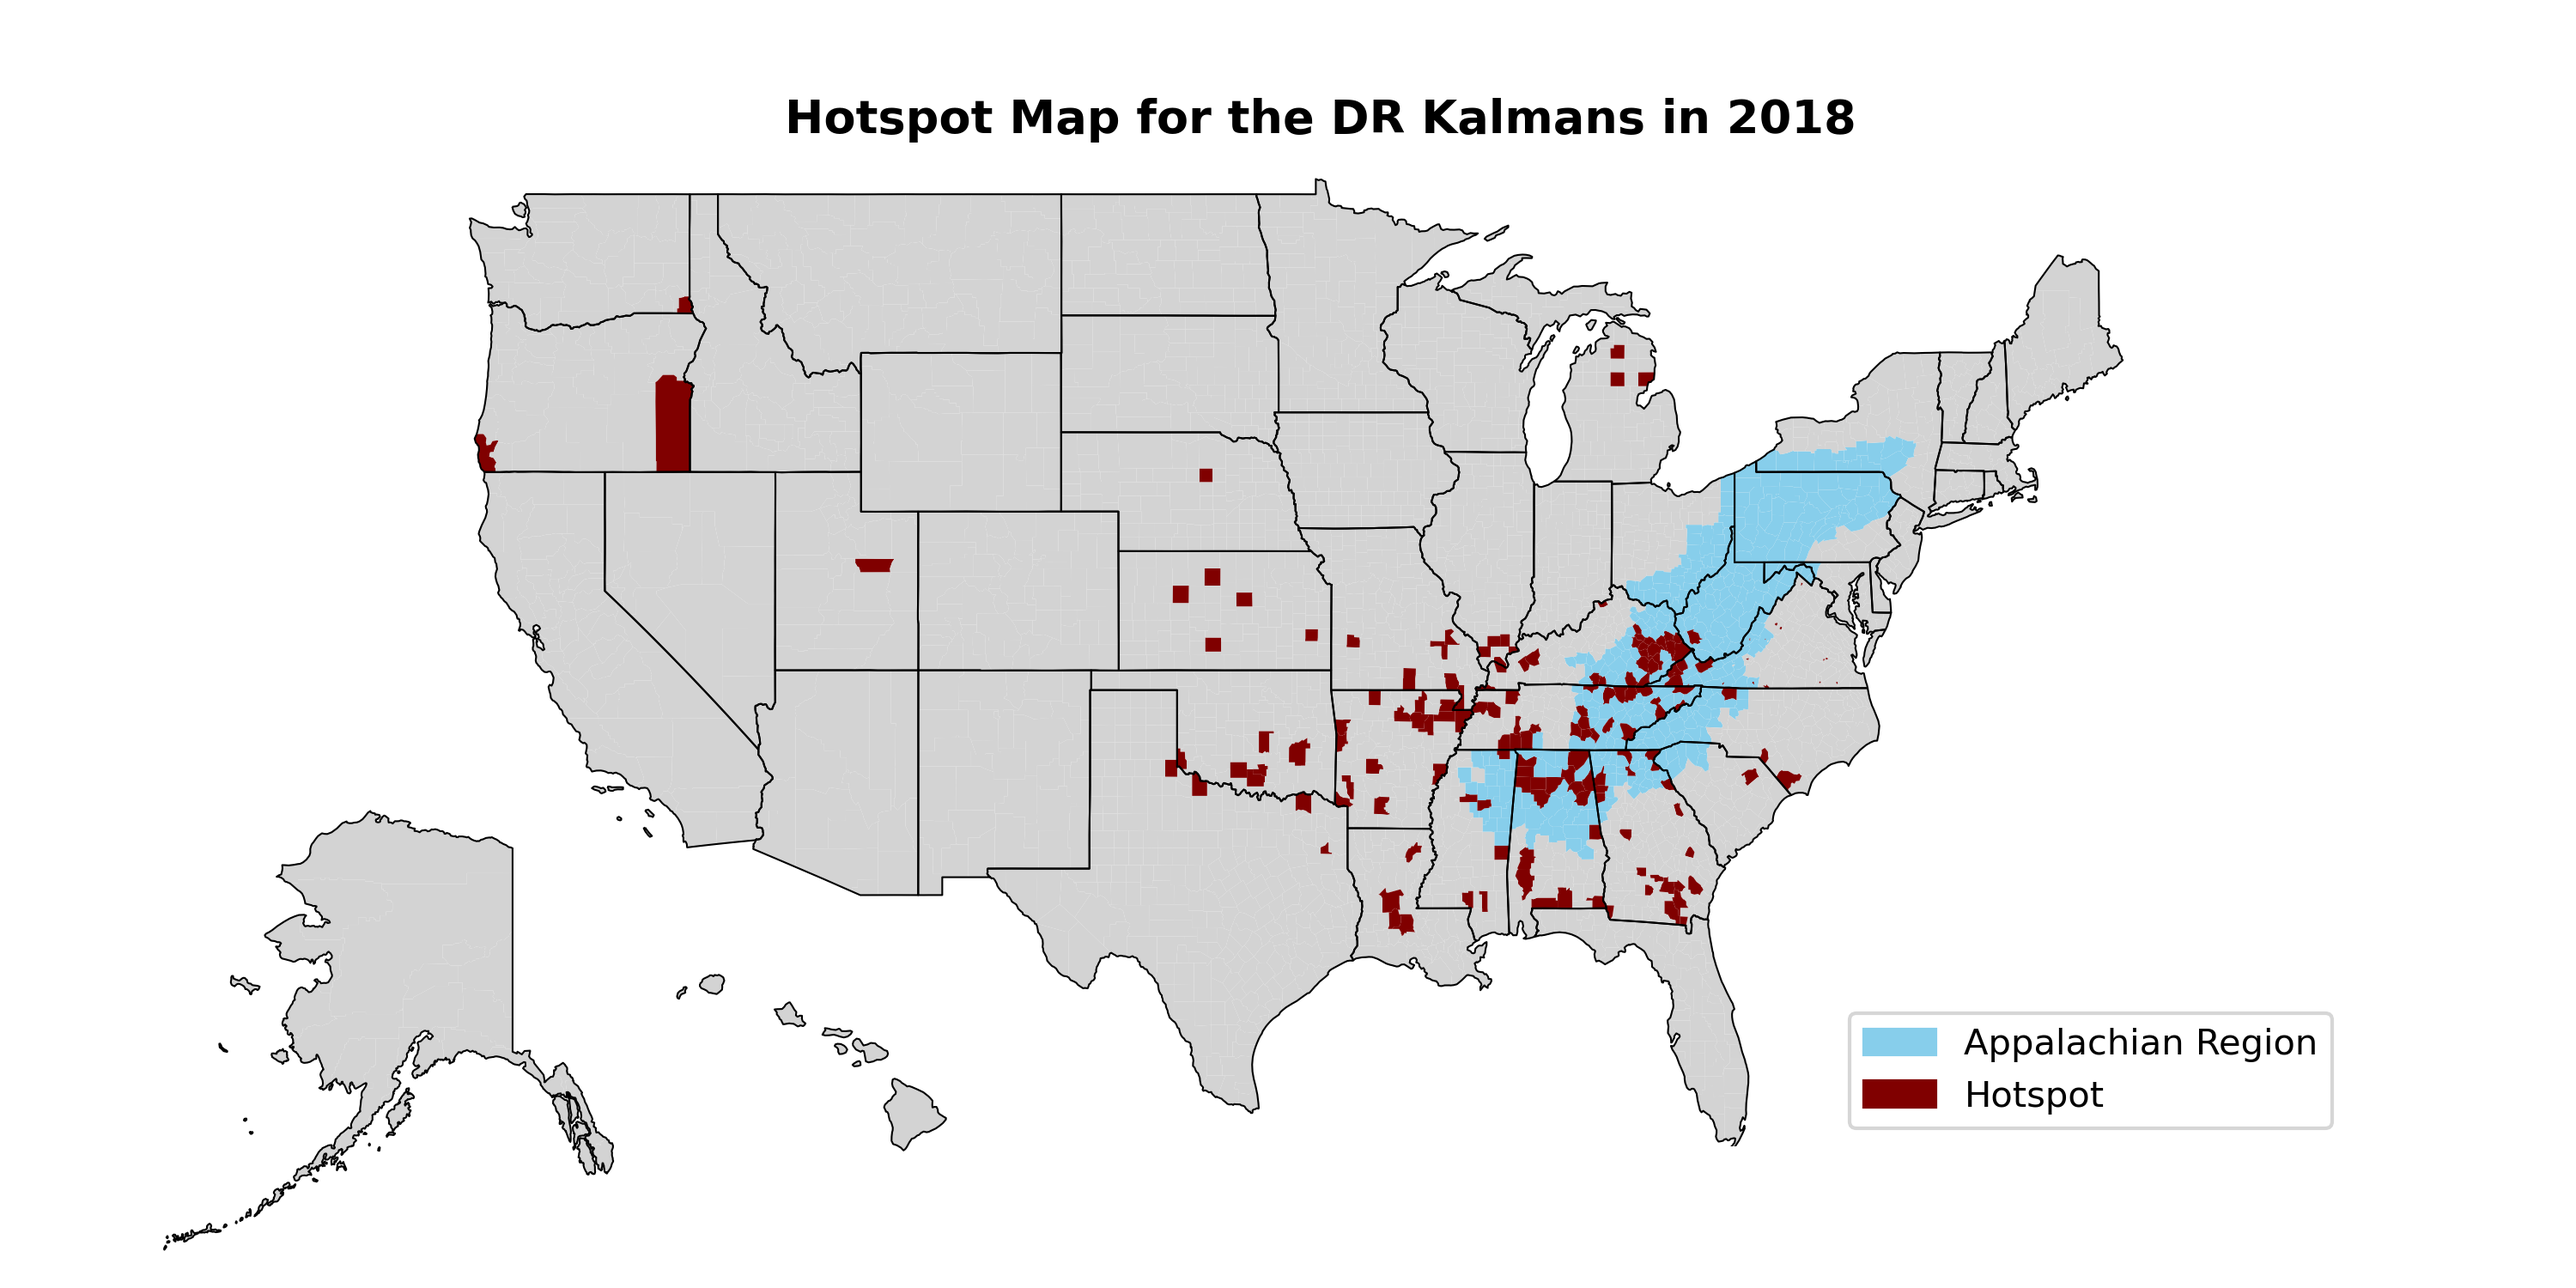
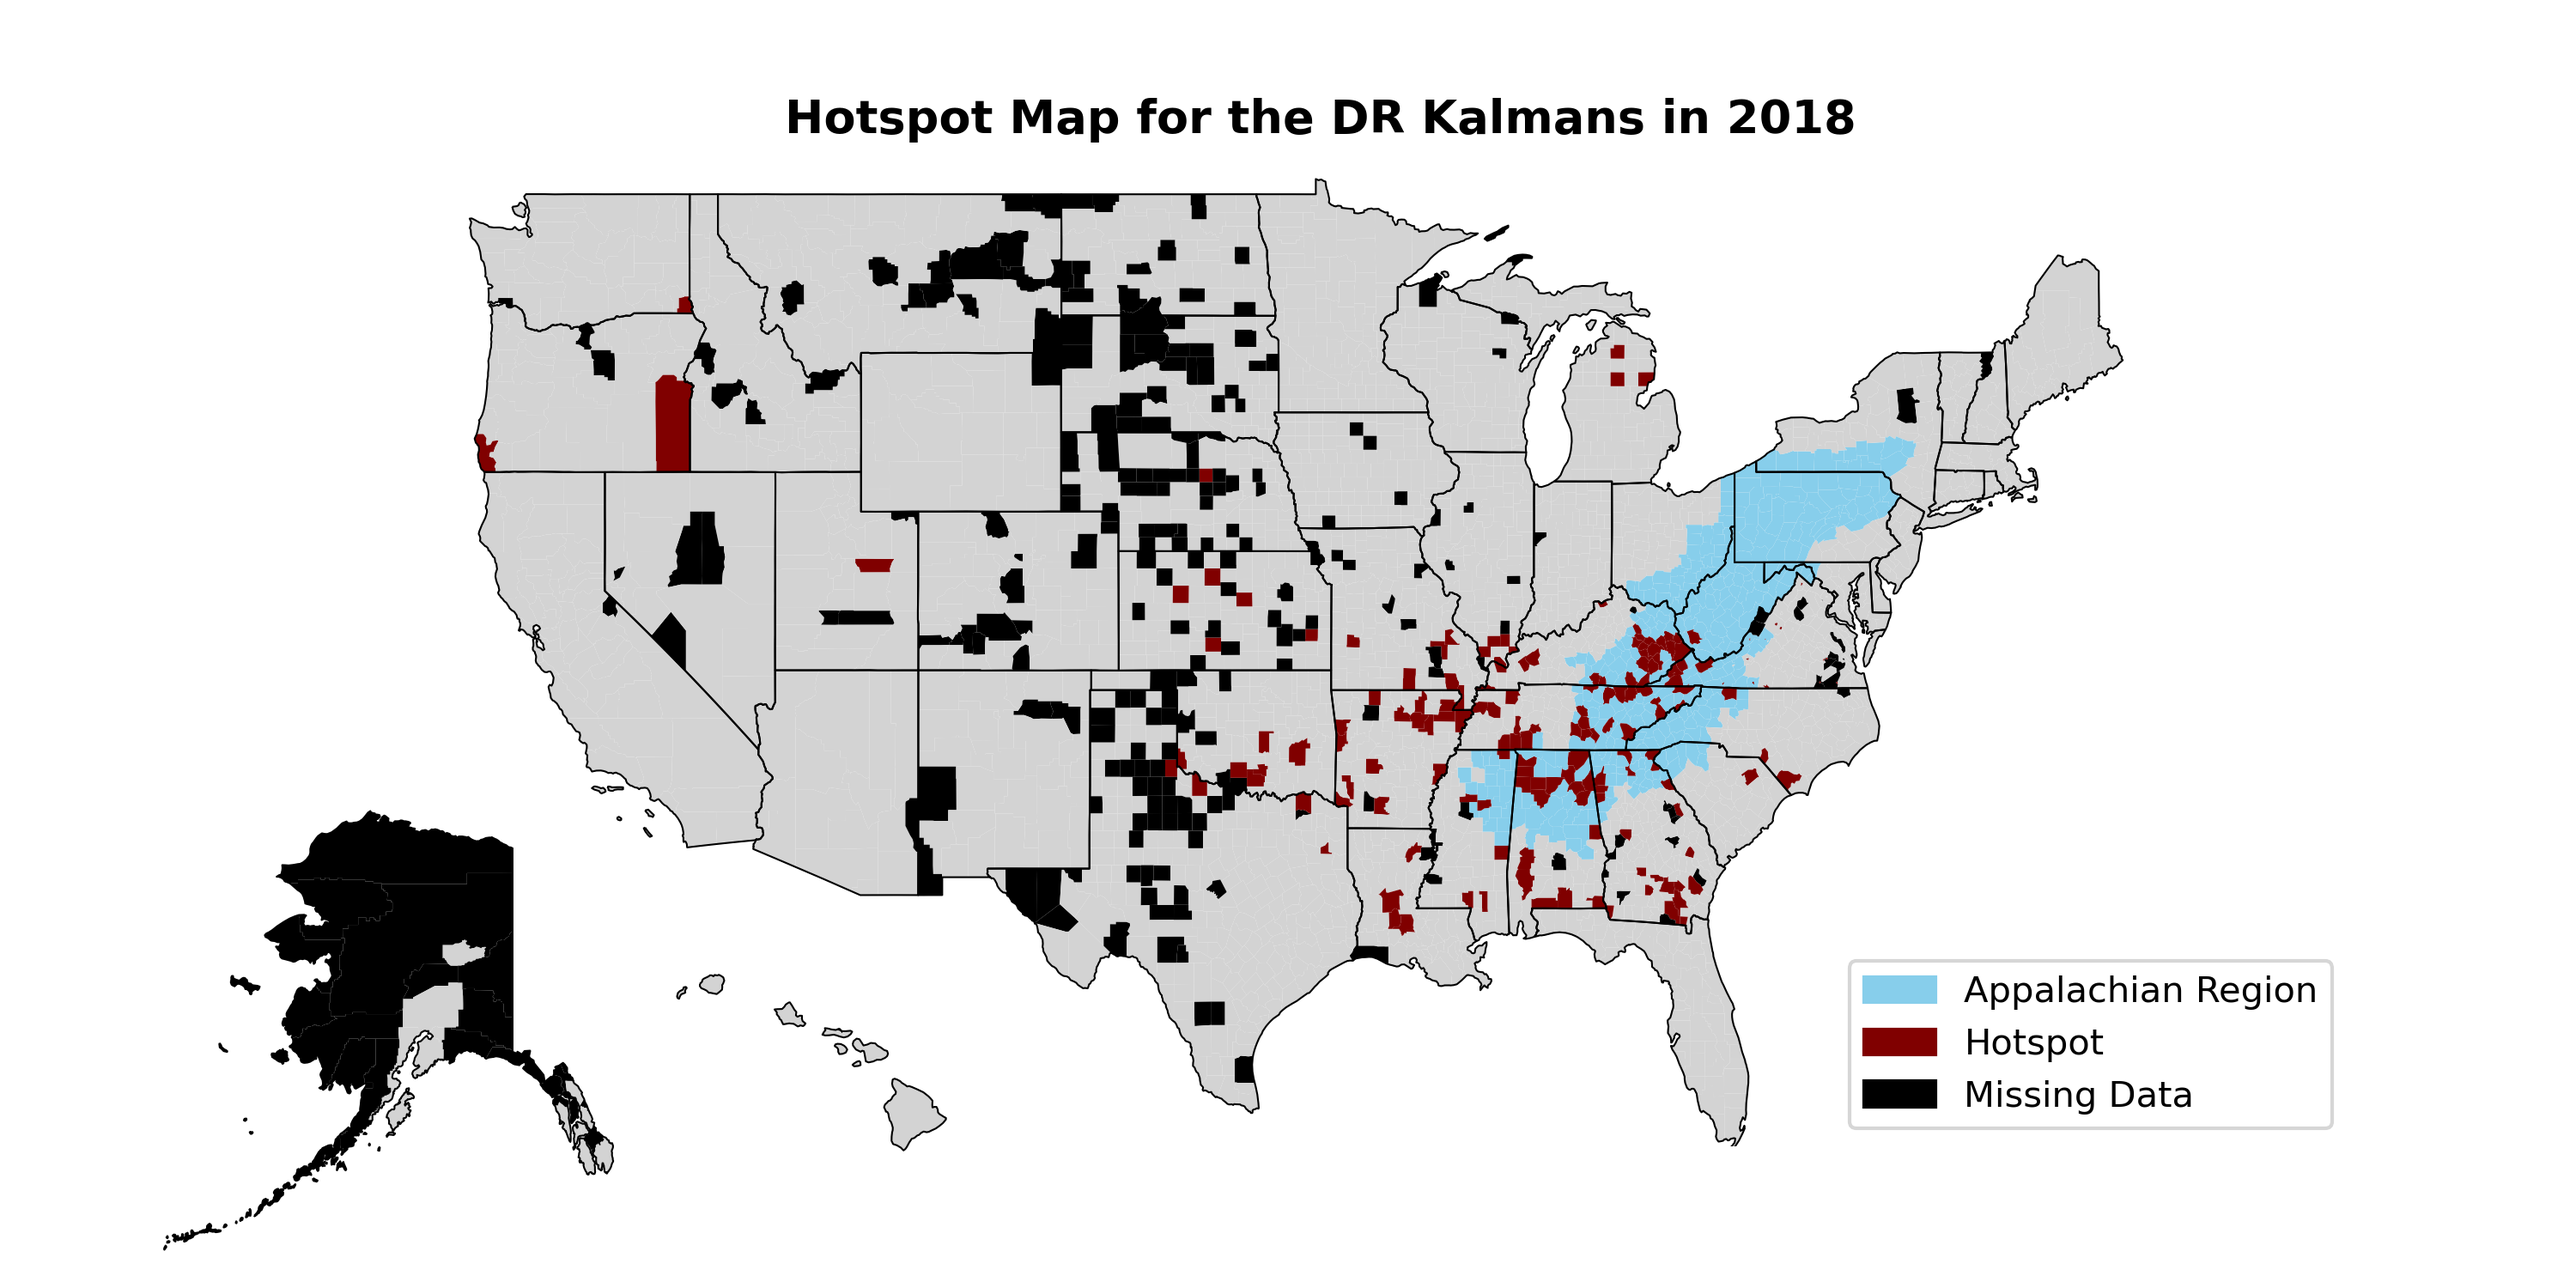
update

diff --git a/Hotspot Maps.py b/Hotspot Maps.py
@@ -8,12 +8,14 @@ import matplotlib.patches as mpatches
 FACTOR_LIST = ['OD', 'DR', 'SVI Disability']
 SHAPE_PATH = '2020 USA County Shapefile/FIPS_usa.shp'
 KAL_NAMES = ['FIPS'] + [f'{yr} Kals' for yr in range(2014, 2021)]
+DATA_NAMES = ['FIPS'] + [f'{yr} Data' for yr in range(2014, 2021)]
 APPALACHIA_PATH = 'Clean Data/appalachia_fips_codes.csv'
 
 def construct_file_paths(dataset, year):
     output_map_path = f'Images/Hotspot Maps/{dataset}/{year} {dataset} Hotspot Map'
     kal_path = f'Kalman Predictions/{dataset} Kalman Preds.csv'
-    return output_map_path, kal_path
+    data_path = f'Clean Data/{dataset} rates.csv'
+    return output_map_path, kal_path, data_path
 
 def load_shapefile(shapefile_path):
     shape = gpd.read_file(shapefile_path)
@@ -24,6 +26,12 @@ def load_kals(kal_path, kal_names):
     kals_df['FIPS'] = kals_df['FIPS'].astype(str).apply(lambda x: x.zfill(5) if len(x) < 5 else x)
     kals_df[kal_names[1:]] = kals_df[kal_names[1:]].astype(float)
     return kals_df
+
+def load_data(data_path, data_names):
+    data_df = pd.read_csv(data_path, header=0, names=data_names)
+    data_df['FIPS'] = data_df['FIPS'].astype(str).apply(lambda x: x.zfill(5) if len(x) < 5 else x)
+    data_df[data_names[1:]] = data_df[data_names[1:]].astype(float)
+    return data_df
 
 def load_appalachia():
     appalachia_df = pd.read_csv(APPALACHIA_PATH, header=0, names=['FIPS'])
@@ -42,8 +50,10 @@ def compute_density_values(kals_df, year):
     kals_df[f'{year} Density Values'] = density_values
     return kals_df
 
-def merge_data_shape(shape, kals_df):
-    return shape.merge(kals_df, on='FIPS')
+def merge_shape(shape, kals_df, data_df):
+    shape = shape.merge(kals_df, on='FIPS')
+    shape = shape.merge(data_df, on='FIPS')
+    return shape
 
 def plot_heat_map(dataset, shape, appalachia_df, year, output_map_path):
     fig, main_ax = plt.subplots(figsize=(10, 5))
@@ -81,12 +91,16 @@ def plot_heat_map(dataset, shape, appalachia_df, year, output_map_path):
         for _, row in inset.iterrows():
             county = row['FIPS']
             density_value = row[f'{year} Density Values']
+            data_value = row[f'{year} Data']
             if density_value > .95:
                 color = 'maroon'
             elif county in appalachia_df['FIPS'].values:
                 color = 'skyblue'
             else:
                 color = 'lightgrey'
+
+            if data_value < 0:
+                color = 'black'
 
             inset[inset['FIPS'] == county].plot(ax=ax, color=color)
 
@@ -114,17 +128,19 @@ def set_view_window(main_ax,alaska_ax,hawaii_ax):
 def add_legend(main_ax):
     appalachia_patch = mpatches.Patch(color='skyblue', label='Appalachian Region')
     maroon_patch = mpatches.Patch(color='maroon', label='Hotspot')
-    main_ax.legend(handles=[appalachia_patch, maroon_patch], loc='lower right', bbox_to_anchor=(1.10, 0))
+    black_patch = mpatches.Patch(color='black', label='Missing Data')
+    main_ax.legend(handles=[appalachia_patch, maroon_patch, black_patch], loc='lower right', bbox_to_anchor=(1.10, 0))
 
 def main():
     appalachia_df = load_appalachia()
     for dataset in FACTOR_LIST:
         for year in range(2014, 2021):
-            output_map_path, kal_path = construct_file_paths(dataset, year)
+            output_map_path, kal_path, data_path = construct_file_paths(dataset, year)
             shape = load_shapefile(SHAPE_PATH)
             kals_df = load_kals(kal_path, KAL_NAMES)
+            data_df = load_data(data_path, DATA_NAMES)
             kals_df = compute_density_values(kals_df, year)
-            shape = merge_data_shape(shape, kals_df)
+            shape = merge_shape(shape, kals_df, data_df)
             plot_heat_map(dataset, shape, appalachia_df, year, output_map_path)
             print(f'Plot printed for {dataset} in {year}.')
 
